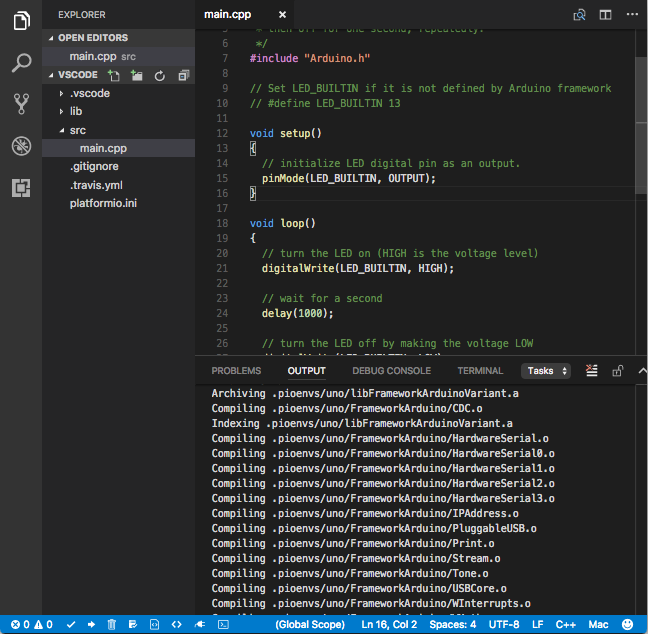
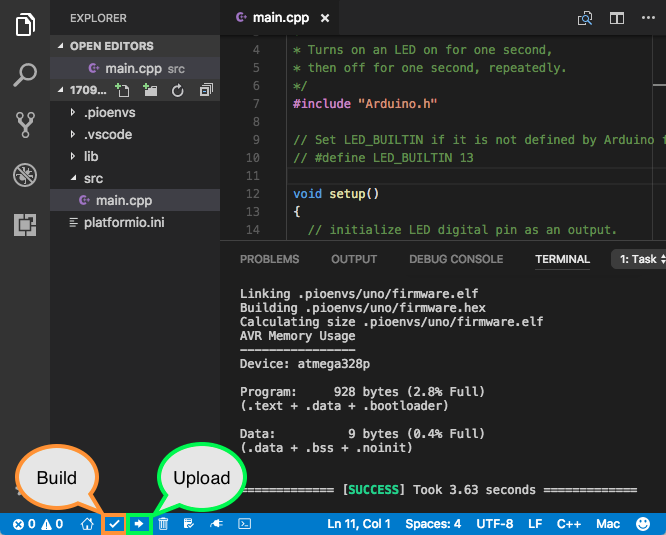
Update VSCode docs

Changed region(s): [[0.0, 0.0, 1.0, 1.0]]

diff --git a/ide/vscode.rst b/ide/vscode.rst
@@ -56,33 +56,24 @@ have a general understanding of how to work with projects in the IDE.
 Setting Up the Project
 ~~~~~~~~~~~~~~~~~~~~~~
 
-1. Create empty directory (or use existing) and open it via ``File > Open...``
+1. Click on "PlatformIO Home" button on the bottom :ref:`ide_vscode_toolbar`
 
-.. image:: ../_static/ide/vscode/platformio-ide-vscode-open-folder.png
+.. image:: ../_static/ide/vscode/platformio-ide-vscode-welcome.png
 
-2. Initialize PlatformIO Project using one of these methods:
+2. Click on "New Project", select a board and create a new PlatformIO Project
 
-    * Run "Initialize or Update Project" command using ``ctrl+alt+i`` hotkey
-    * Launch "VS Code Menu: View > Command Palette..." or use hotkey
-      ``Ctrl+Shift+P`` (``Cmd+Shift+P`` for macOS), search for
-      ``PlatformIO: Initialize or Update Project``, and press enter
+.. image:: ../_static/ide/vscode/platformio-ide-vscode-new-project.png
 
-3. Select a board. You can change it any time in :ref:`projectconf` or add
-   new using the same ``PlatformIO: Initialize or Update Project`` command.
-
-.. image:: ../_static/ide/vscode/platformio-ide-vscode-select-board.png
-
-
-4. Create New File named ``main.cpp`` in ``src`` folder
-
-.. image:: ../_static/ide/vscode/platformio-ide-vscode-new-src-file.png
-
-5. Copy the next source code to the just created file ``main.cpp``
+3. Open ``main.cpp`` file form ``src`` folder and replace its contents with
+   the next:
 
 .. warning::
 
     The code below works only in pair with Arduino-based boards. Please
     follow to `PlatformIO Project Examples <https://github.com/platformio/platformio-examples>`_ repository for other pre-configured projects.
+
+
+.. image:: ../_static/ide/vscode/platformio-ide-vscode-blink-project.png
 
 .. code-block:: cpp
 
@@ -118,13 +109,14 @@ Setting Up the Project
       delay(1000);
     }
 
-6. Build your project with ``ctrl+alt+b`` hotkey (see all Key Bindings in
-   "User Guide" section below)
+4. Build your project with ``ctrl+alt+b`` hotkey (see all Key Bindings in
+   "User Guide" section below) or using "Build" button on the :ref:`ide_vscode_toolbar`
 
 .. image:: ../_static/ide/vscode/platformio-ide-vscode-build-project.png
 
-7. Learn more about :ref:`ide_vscode_toolbar` and other commands (Upload, Clean,
-   Serial Monitor) in "User Guider" section.
+
+Learn more about :ref:`ide_vscode_toolbar` and other commands (Upload, Clean,
+Serial Monitor) below.
 
 **Happy coding with PlatformIO!**
 
@@ -145,7 +137,7 @@ Each button contains hint (delay mouse on it).
 * PlatformIO: Build
 * PlatformIO: Upload
 * PlatformIO: Clean
-* Initialize new PlatformIO Project or Update existing...
+* Run a task... (See "Task Runner" below)
 * :ref:`Serial Port Monitor <cmd_device_monitor>`
 * PIO Terminal
 
